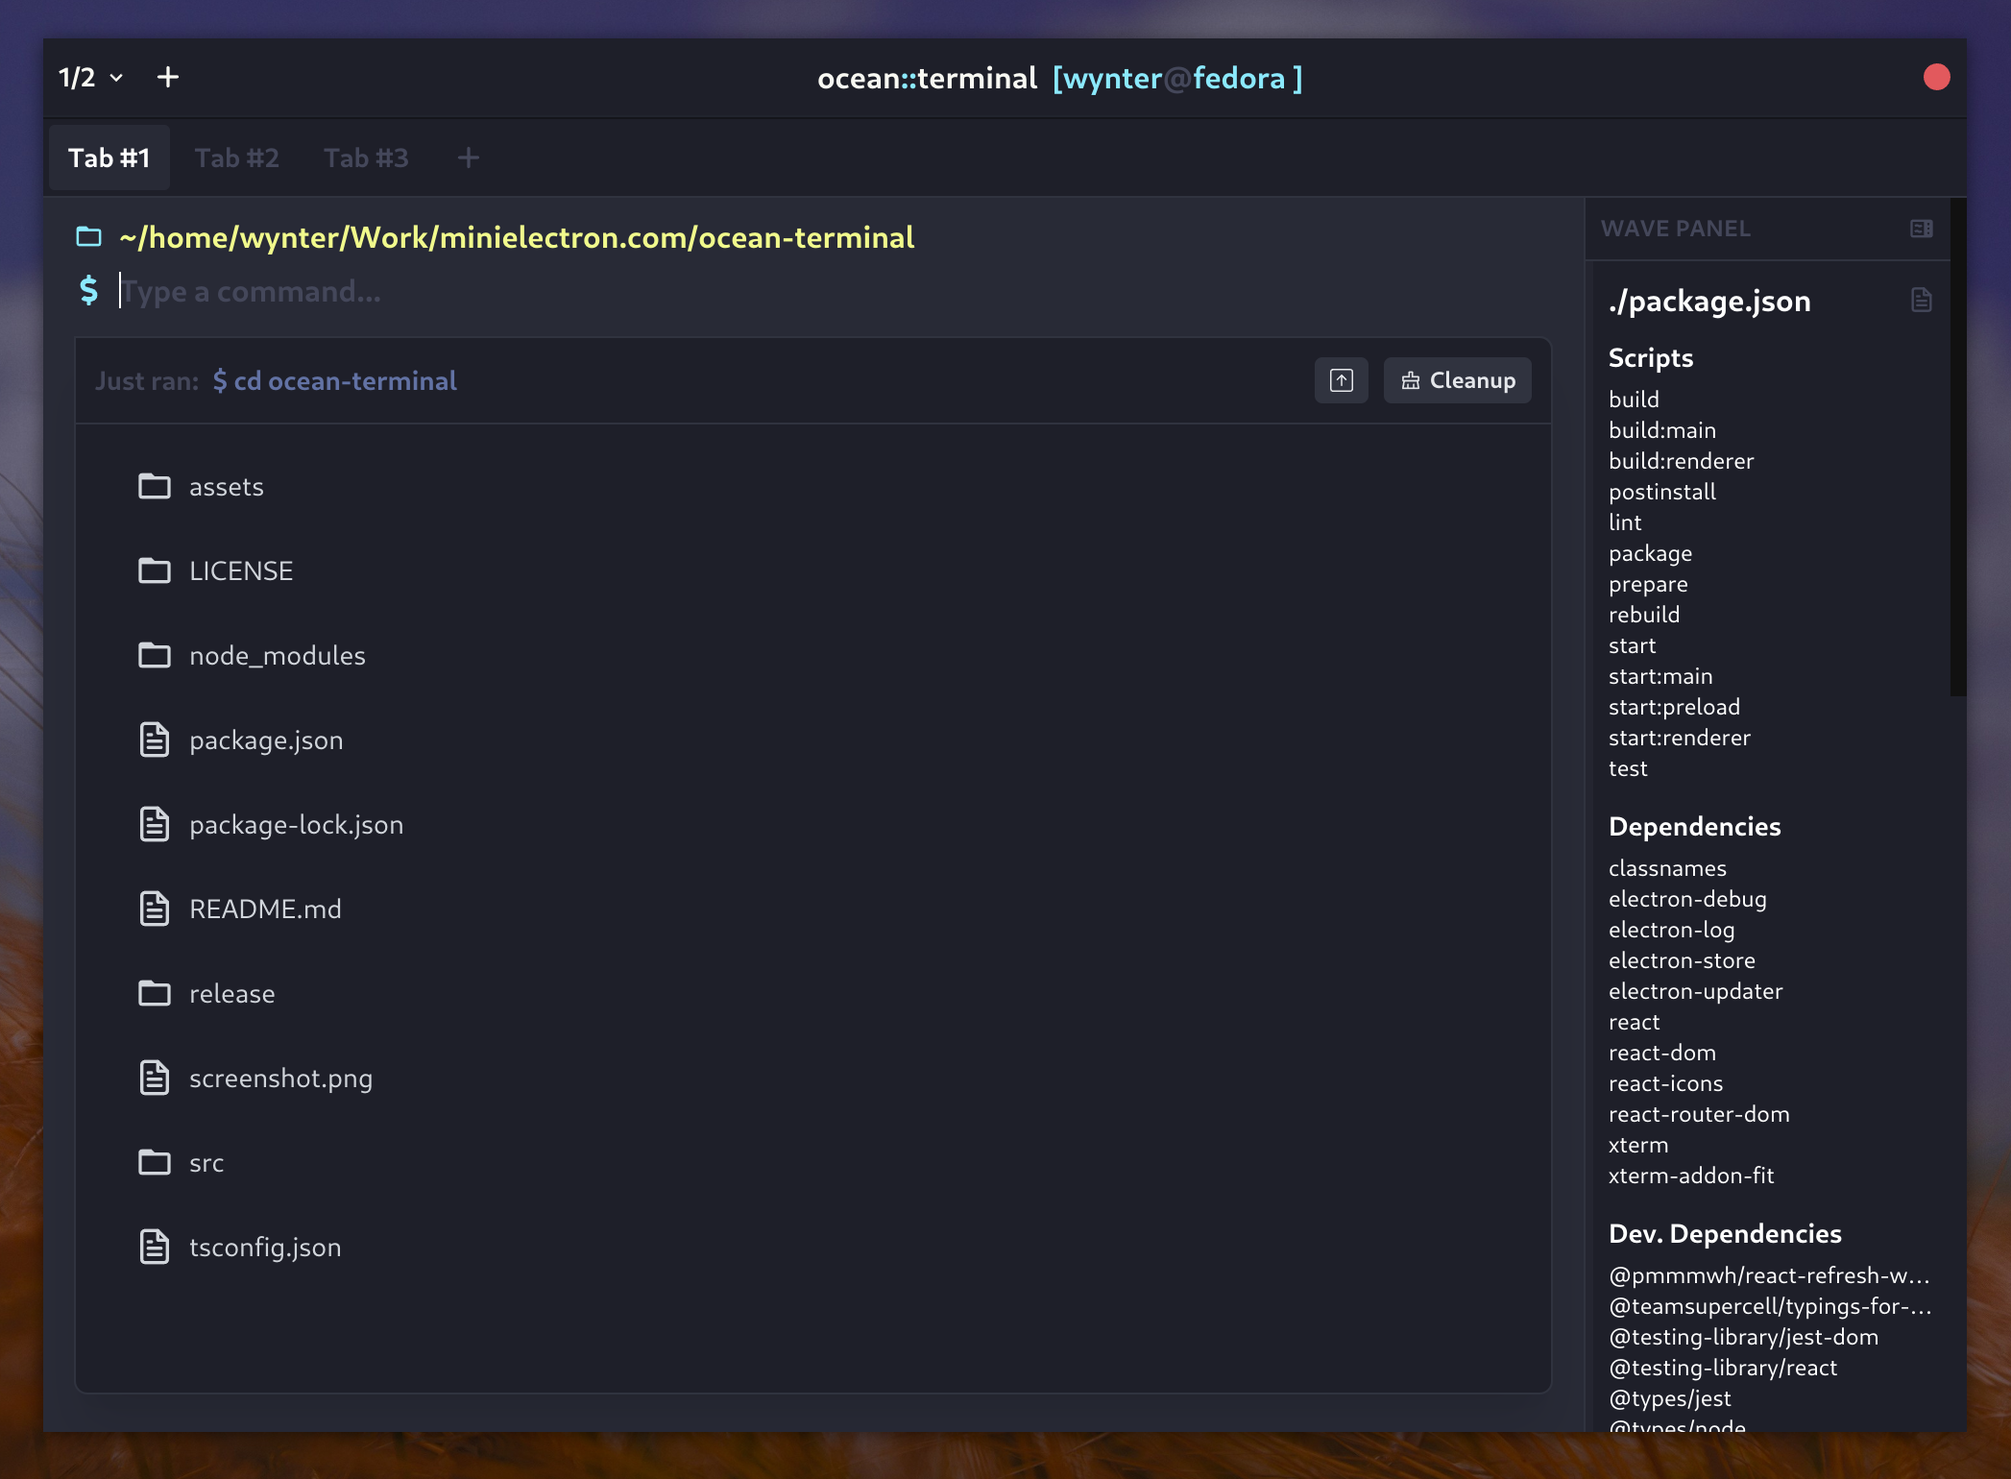
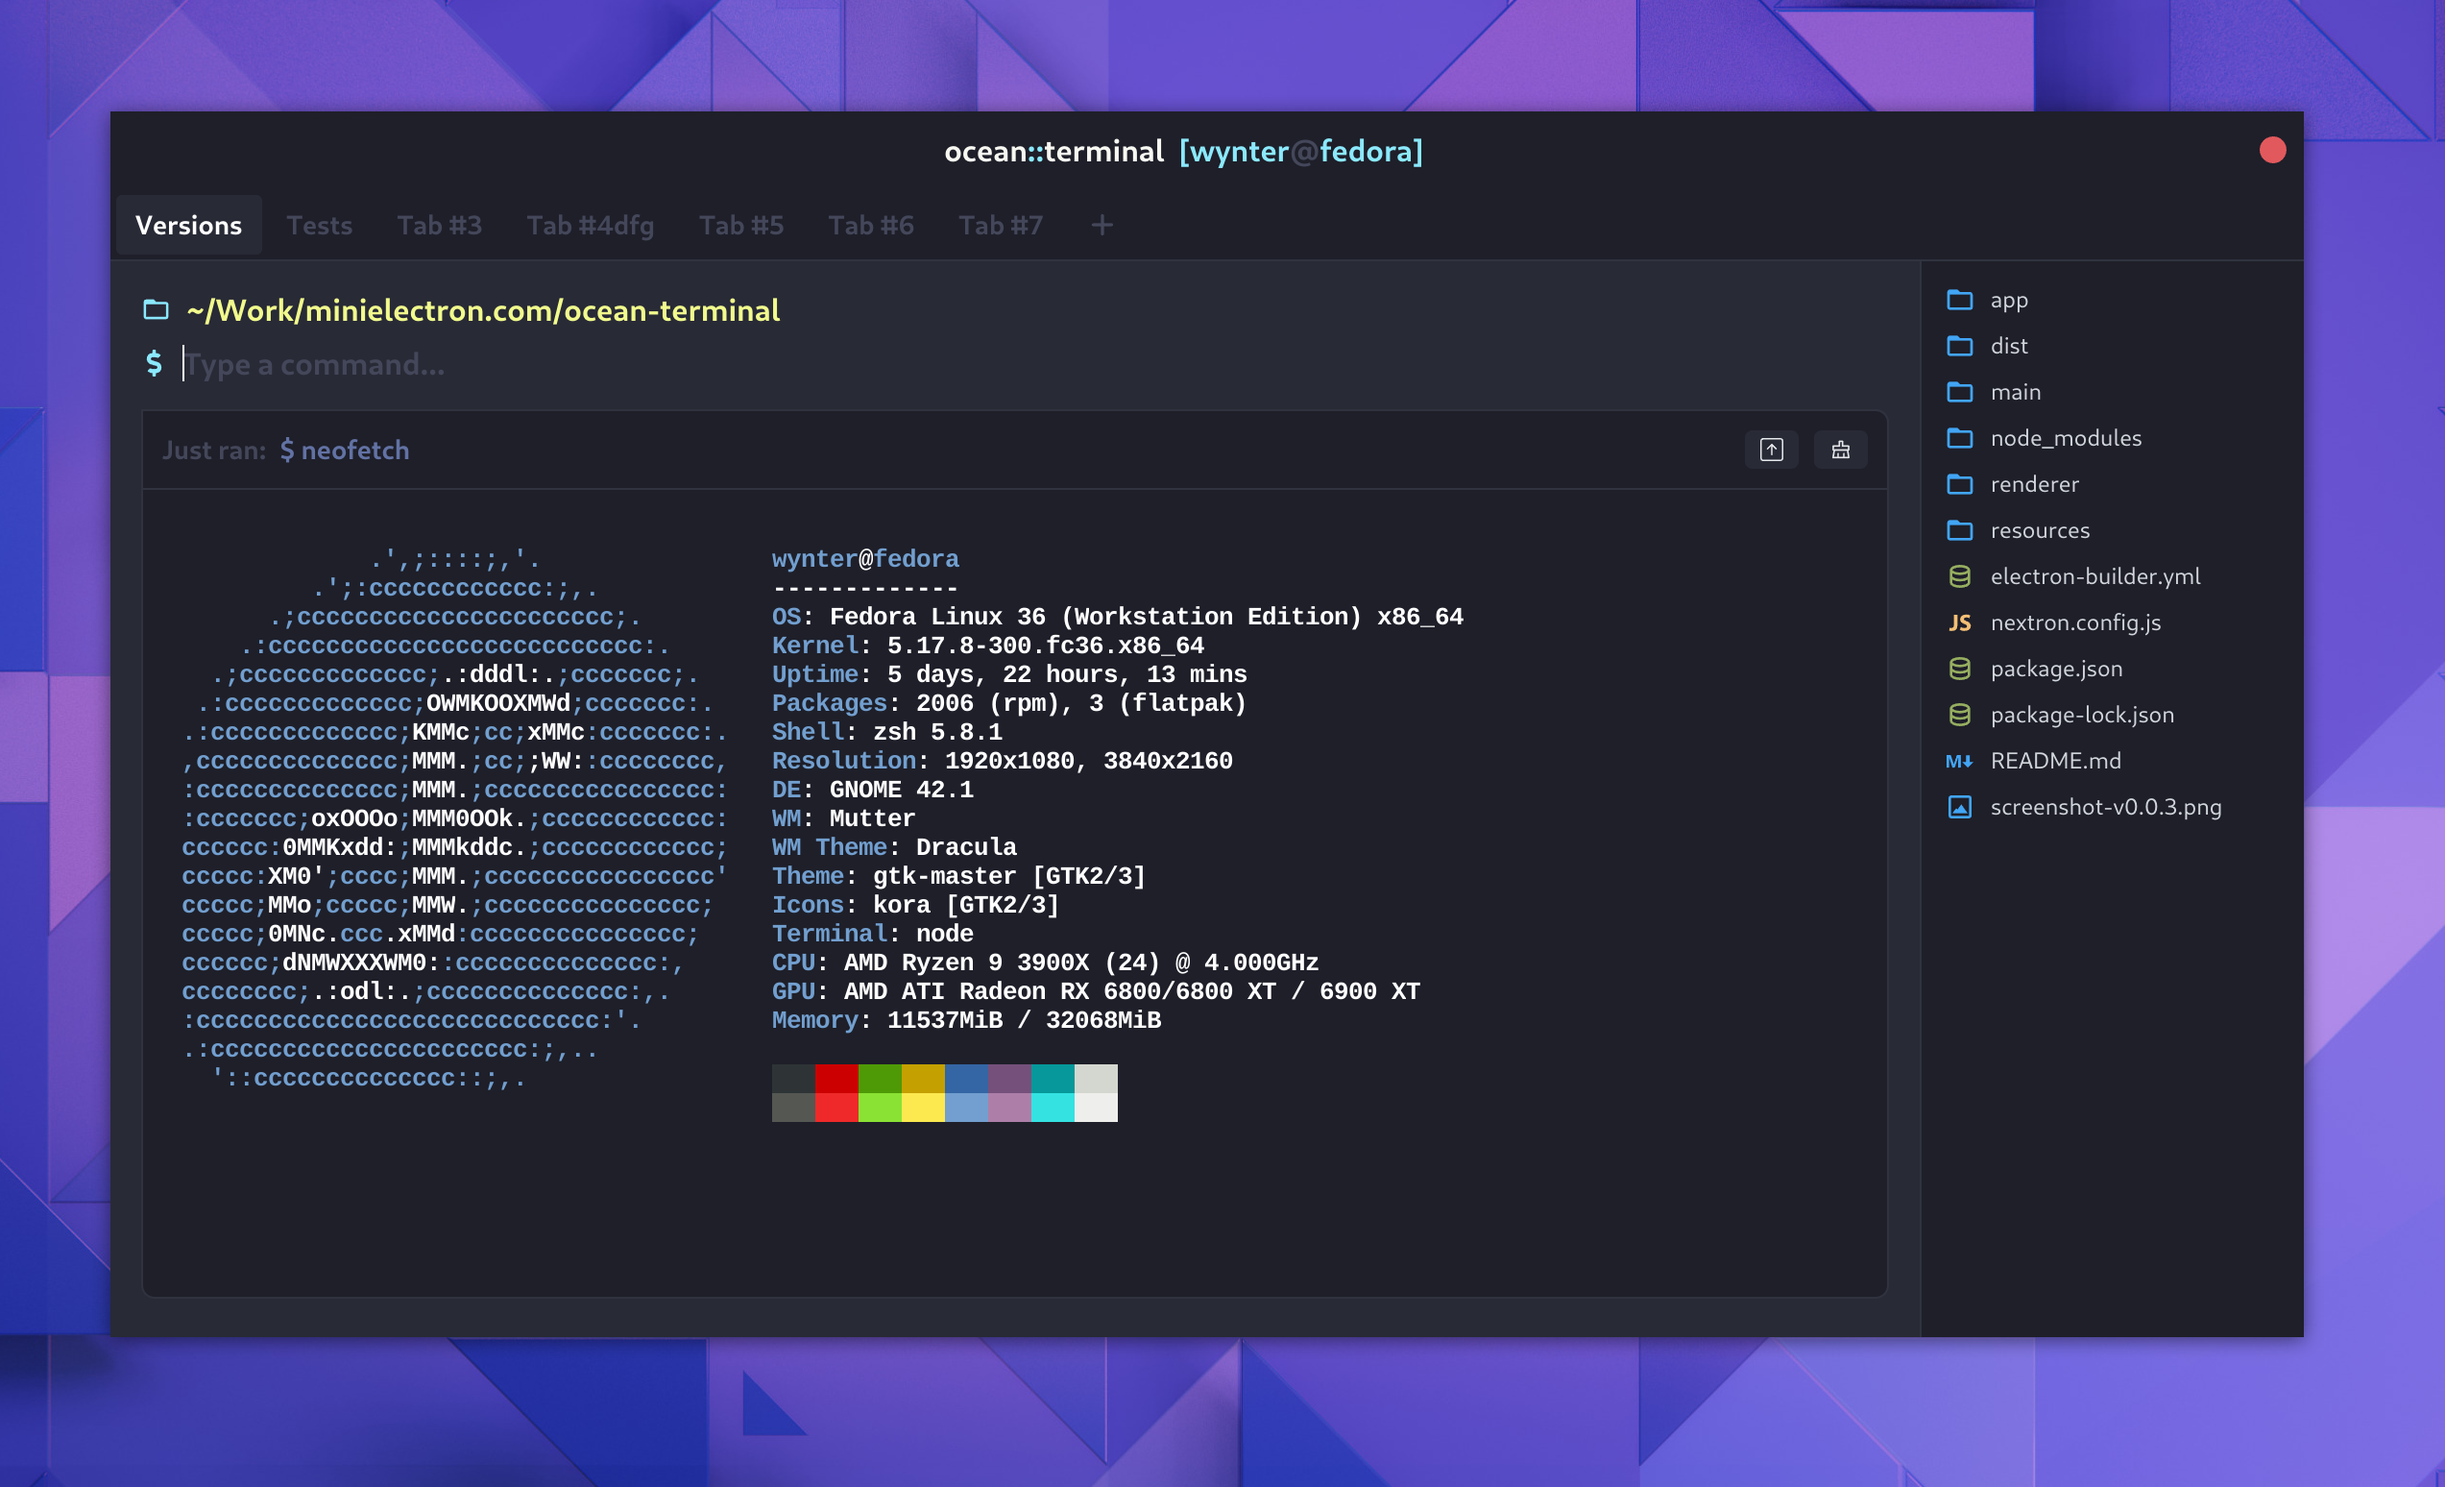
edit tab title

diff --git a/renderer/components/TabNav.jsx b/renderer/components/TabNav.jsx
@@ -2,81 +2,111 @@ import { HiPlus } from 'react-icons/hi'
 import Link from 'next/link'
 import Classnames from 'classnames'
 import { useRouter } from 'next/router'
+import { useState, useEffect } from 'react'
 
-const TabNav = ({ tabs, tabName }) => {
+const TabNav = ({ tabs, setTabs, tab }) => {
   const router = useRouter()
+  const { id } = router.query
 
-  // const [tabName, setTabName] = useState('')
+  const [tabName, setTabName] = useState(null)
+  const [visible, setVisible] = useState(false)
 
-  // const onChange = (e) => {
-  //   tab.name = e.target.value
-  //   setTabName(e.target.value)
-  // }
+  useEffect(() => {
+    setTabName(tab?.name)
+    setVisible(false)
+  }, [tab, tabs])
 
-  // const onSubmit = (e) => {
-  //   e.preventDefault()
+  const onChange = (e) => {
+    tab.name = e.target.value
+  }
 
-  //   window.electron.ipcRenderer.send('edit-tab', { id, tab })
-  //   setTabs(window.electron.ipcRenderer.sendSync('get-tabs'))
-  // }
+  const onSubmit = (e) => {
+    e.preventDefault()
+    window.electron.ipcRenderer.send('edit-tab', { id, tab })
+    setTabs(window.electron.ipcRenderer.sendSync('get-tabs'))
+  }
+
+  const newTab = () => {
+    const newTab = {
+      name: 'Tab #1',
+      path: `/home/${
+        window.electron.ipcRenderer.sendSync('get-username-hostname')[
+          'username'
+        ]
+      }`,
+      command: '',
+      output: '',
+      wave: {
+        folders: [],
+        files: [],
+        dev: {
+          package_json: '',
+          git: '',
+          readme: '',
+        },
+      },
+    }
+    newTab.name = `Tab #${tabs.length + 1}`
+    tabs.push(newTab)
+    window.electron.ipcRenderer.send('save-tabs', tabs)
+    router.push('/tab/' + (tabs.length - 1))
+  }
 
   return (
-    <div id="tablist" className="flex items-center text-sm">
-      <div>
-        {tabs.map((tab, index) => (
-          <Link href={'/tab/' + index} key={index}>
-            <a
-              className={Classnames('tab', {
-                'tab-active': tab.name === tabName,
-              })}
-            >
-              {tab.name}
-            </a>
-          </Link>
-        ))}
+    <div
+      id="tablist"
+      className="flex items-center text-sm"
+      style={{ zIndex: 9999999 }}
+    >
+      <div className="relative">
+        {tabs.map((tab, index) => {
+          if (index === parseInt(id)) {
+            return (
+              <div key={index} className="inline-block relative">
+                <span
+                  className="tab tab-active cursor-pointer"
+                  onClick={() => {
+                    setVisible(!visible)
+                  }}
+                >
+                  {tabName}
+                </span>
+                {visible && (
+                  <div
+                    className="bg-dracula-dark-gray text-white absolute left-0 p-3 rounded shadow-xl"
+                    style={{ top: '27px', zIndex: 9999999 }}
+                  >
+                    <form onSubmit={onSubmit}>
+                      <input
+                        placeholder="Tab Name"
+                        type="text"
+                        className="text-gray-300 p-2 bg-dracula-gray border border-dracula-gray rounded"
+                        defaultValue={tabName}
+                        onChange={onChange}
+                      />
+                    </form>
+                  </div>
+                )}
+              </div>
+            )
+          } else {
+            return (
+              <Link href={'/tab/' + index} key={index}>
+                <a className="tab">{tab.name}</a>
+              </Link>
+            )
+          }
+        })}
       </div>
       <div>
         <button
           className="tab text-base"
           onClick={() => {
-            const newTab = {
-              name: 'Tab #1',
-              path: `/home/${
-                window.electron.ipcRenderer.sendSync('get-username-hostname')[
-                  'username'
-                ]
-              }`,
-              command: '',
-              output: '',
-              wave: {
-                folders: [],
-                files: [],
-                dev: {
-                  package_json: '',
-                  git: '',
-                  readme: '',
-                },
-              },
-            }
-            newTab.name = `Tab #${tabs.length + 1}`
-            tabs.push(newTab)
-            window.electron.ipcRenderer.send('save-tabs', tabs)
-            router.push('/tab/' + (tabs.length - 1))
+            newTab()
           }}
         >
           <HiPlus />
         </button>
-        {/* <div className="bg-gray-900 text-white">
-          <h3>Edit Name</h3>
-          <form onSubmit={onSubmit}>
-            <input
-              type="text"
-              className="text-gray-800 p-2"
-              value={tabName}
-              onChange={onChange}
-            />
-          </form>
-        </div> */}
       </div>
     </div>
   )

diff --git a/renderer/components/Toolbar.jsx b/renderer/components/Toolbar.jsx
@@ -1,12 +1,9 @@
 import { useEffect, useState } from 'react'
-import { HiPlus } from 'react-icons/hi'
-import { BiChevronDown } from 'react-icons/bi'
 import { VscCircleLargeFilled } from 'react-icons/vsc'
 
 const Toolbar = ({}) => {
   const [username, setUsername] = useState('username')
   const [hostname, setHostname] = useState('hostname')
-  const [visible, setVisible] = useState(false)
 
   useEffect(() => {
     const data = window.electron.ipcRenderer.sendSync('get-username-hostname')
@@ -17,34 +14,6 @@ const Toolbar = ({}) => {
   return (
     <div id="toolbar">
       <div className="flex items-center justify-between">
-        <div className="px-2 py-1 flex items-center space-x-3">
-          <div>
-            <button
-              className="flex items-center space-x-1 px-1 text-sm font-bold"
-              onClick={() => {
-                setVisible(!visible)
-              }}
-            >
-              <span>1/2</span> <BiChevronDown />
-            </button>
-            {visible && (
-              <div
-                className="fixed left-0 bg-dracula-dark-gray border-r border-dracula-gray"
-                style={{
-                  top: '41px',
-                  width: '250px',
-                  height: 'calc(100vh - 41px)',
-                  zIndex: 999999,
-                }}
-              >
-                <div className="p-3">select workspaces</div>
-              </div>
-            )}
-          </div>
-          <button>
-            <HiPlus />
-          </button>
-        </div>
         <div className="can-drag p-2 flex-1 text-center font-bold">
           ocean
           <span className="text-dracula-cyan">::</span>terminal{'  '}

diff --git a/renderer/pages/home.jsx b/renderer/pages/home.jsx
@@ -16,9 +16,21 @@ function Home() {
       <Toolbar />
       <TabNav tabs={tabs} />
       <WavePanel />
-      <div className="grid grid-col-1 w-full text-center">
-        <h1 className="text-2xl">Ocean::Terminal</h1>
-        <Link href="/tab/0">Open Terminal</Link>
+      <div
+        className="flex items-center justify-center w-full h-screen text-center"
+        style={{ height: 'calc(100vh - 82px)' }}
+      >
+        <div className="p-6">
+          <h1 className="text-3xl font-bold mb-1 text-nosferatu-50">
+            ocean::terminal
+          </h1>
+          <p className="text-nosferatu-200 mb-4">
+            A highly opinionated take on the ole' terminal emulator.
+          </p>
+          <p className="text-nosferatu-900 bg-nosferatu-700 p-1 px-3 text-xs font-bold rounded-full inline-block mx-auto text-center">
+            v0.0.1
+          </p>
+        </div>
       </div>
     </div>
   )

diff --git a/renderer/pages/tab/[id].jsx b/renderer/pages/tab/[id].jsx
@@ -119,20 +119,19 @@ function Tab() {
   return (
     <div className="p-4 pt-3">
       <Toolbar />
-      <TabNav tabs={tabs} tabName={tab.name} />
+      <TabNav
+        tabs={tabs}
+        setTabs={(data) => {
+          setTabs(data)
+        }}
+        tab={tab}
+      />
       <WavePanel
         tab={tab}
         openFolder={(item) => {
           openFolder(item)
         }}
-      >
-        {/* <span className="text-xs">
-          <h3>index: {id}</h3>
-          <div className="whitespace-pre mt-2">
-            {JSON.stringify(tab, null, 2)}
-          </div>
-        </span> */}
-      </WavePanel>
+      />
       <CommandLine
         path={path}
         submitCommand={(event) => {
